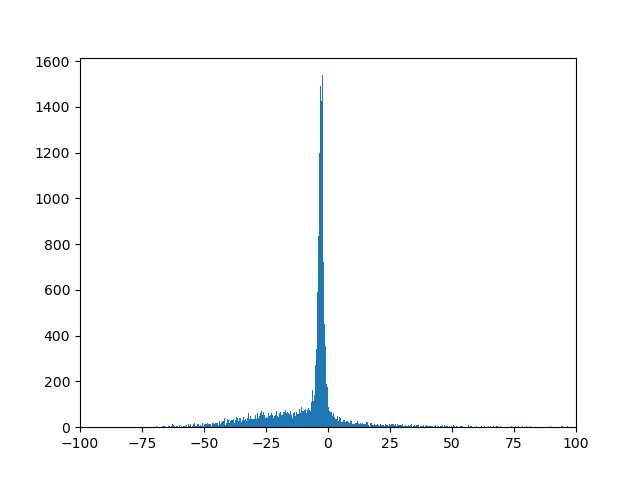
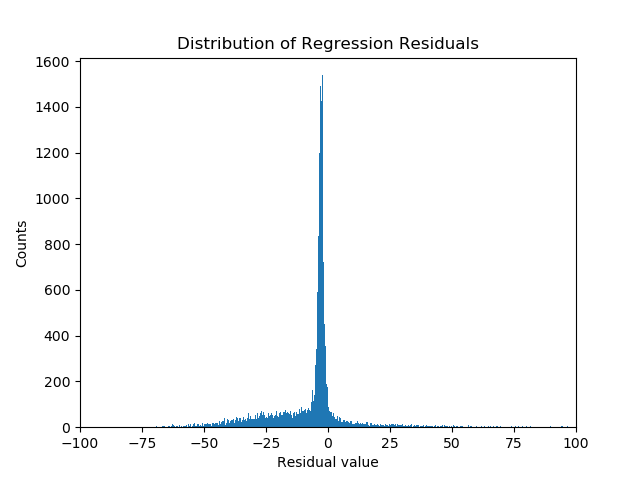
Modified exercise5 program and plot to include data labels

Changed region(s): [[0.2812, 0.0625, 0.75, 0.125], [0.4375, 0.9375, 0.5938, 0.9688], [0.0312, 0.4688, 0.0625, 0.5625]]

diff --git a/day5-lunch/lin_reg_resids.py b/day5-lunch/lin_reg_resids.py
@@ -31,5 +31,8 @@ fig, ax = plt.subplots()
 
 ax.hist(residuals, bins=1000, range=(-100,100))
 ax.set_xlim((-100,100))
+ax.set_xlabel('Residual value')
+ax.set_ylabel('Counts')
+ax.set_title('Distribution of Regression Residuals')
 fig.savefig('resid_hist.png')
 plt.close(fig)
